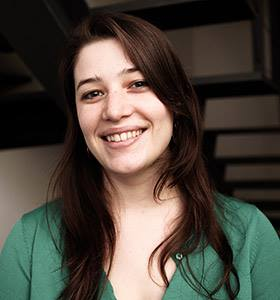
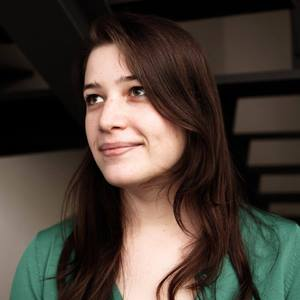
keep doin' redesign

diff --git a/public/index.html b/public/index.html
@@ -5,12 +5,18 @@
         <meta http-equiv="X-UA-Compatible" content="IE=edge">
         <meta name="viewport" id="viewport" content="width=device-width, initial-scale=1">
 
-        <link href='http://fonts.googleapis.com/css?family=Lato' rel='stylesheet' type='text/css'>
+        <link href='http://fonts.googleapis.com/css?family=Lato:400,700' rel='stylesheet' type='text/css'>
         <link href='http://fonts.googleapis.com/css?family=Playfair+Display:700italic' rel='stylesheet' type='text/css'>
         <link href="//cdnjs.cloudflare.com/ajax/libs/normalize/3.0.3/normalize.css" rel="stylesheet" />
         <link href="/css/main.css" rel="stylesheet" />
     </head>
     <body>
+
+        <header>
+            <h1>
+                <span class='name'>Yuna Orsini&nbsp;</span><span class='job'>Strat&eacute;gie & digital&nbsp;</span>
+            </h1>
+        </header>
 
         <div id="main-content" class="main-content">
             <div id="content-border" class="content-border"></div>
@@ -18,7 +24,20 @@
 
         <div class="yuna">
             <img src="/images/yuna-orsini.jpg" alt="Yuna Orsini">
+            <img src="/images/yuna-hello.jpg" id="hello" class="hello" alt="Yuna Orsini">
         </div>
+
+        <footer>
+            <a href="#" title="Contactez-moi">
+                <i class="icon-paper-plane"></i>
+            </a>
+            <a href="#" title="Twitter">
+                <i class="icon-twitter"></i>
+            </a>
+            <a href="#" title="Pinterest">
+                <i class="icon-pinterest-1"></i>
+            </a>
+        </footer>
 
         <script src="/build/bundle.js"></script>
     </body>

diff --git a/app/main.js b/app/main.js
@@ -23,3 +23,10 @@ function startApp() {
     contentBorder.insertAdjacentHTML('beforebegin', allTweets);
 }
 
+window.onload = () => {
+
+    setTimeout(() => {
+        document.querySelector("#hello").style.opacity = 0;
+        mainContentElm.style.opacity = 1;
+    }, 1000);
+};
